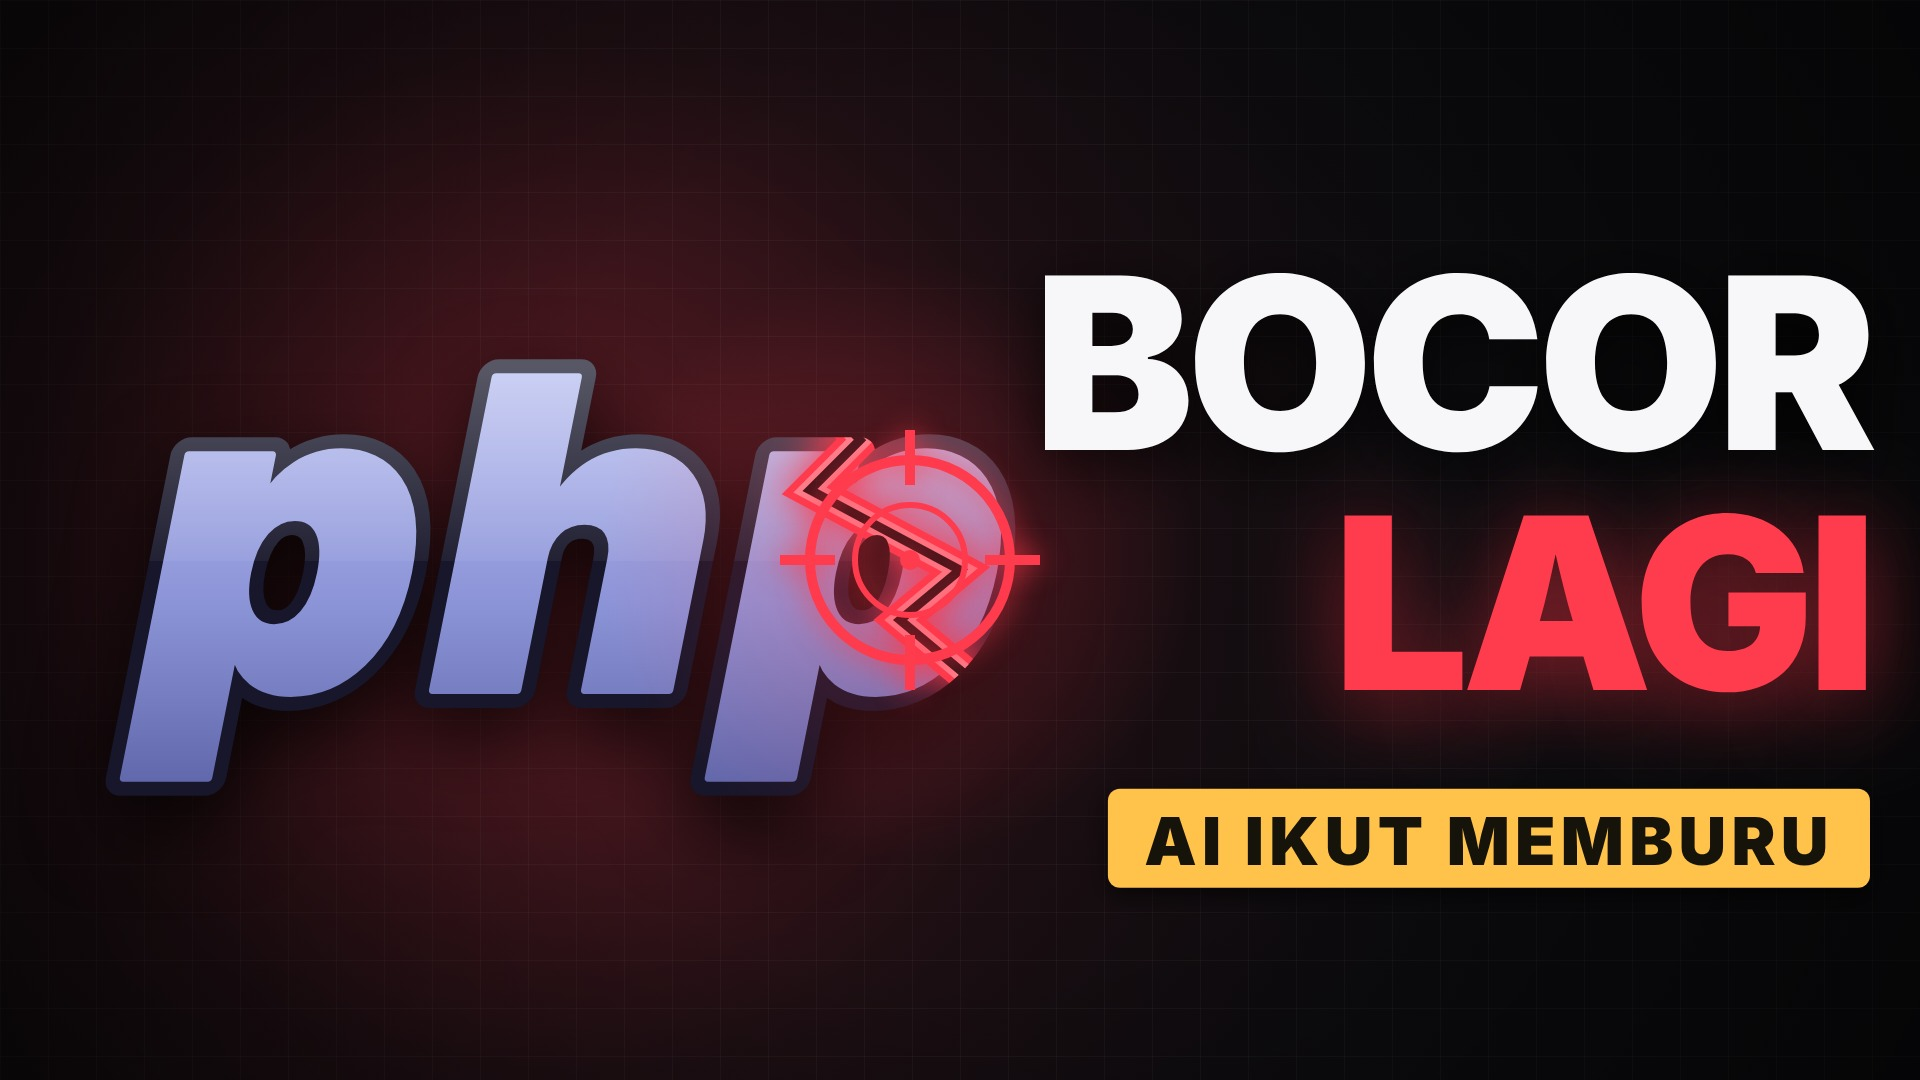
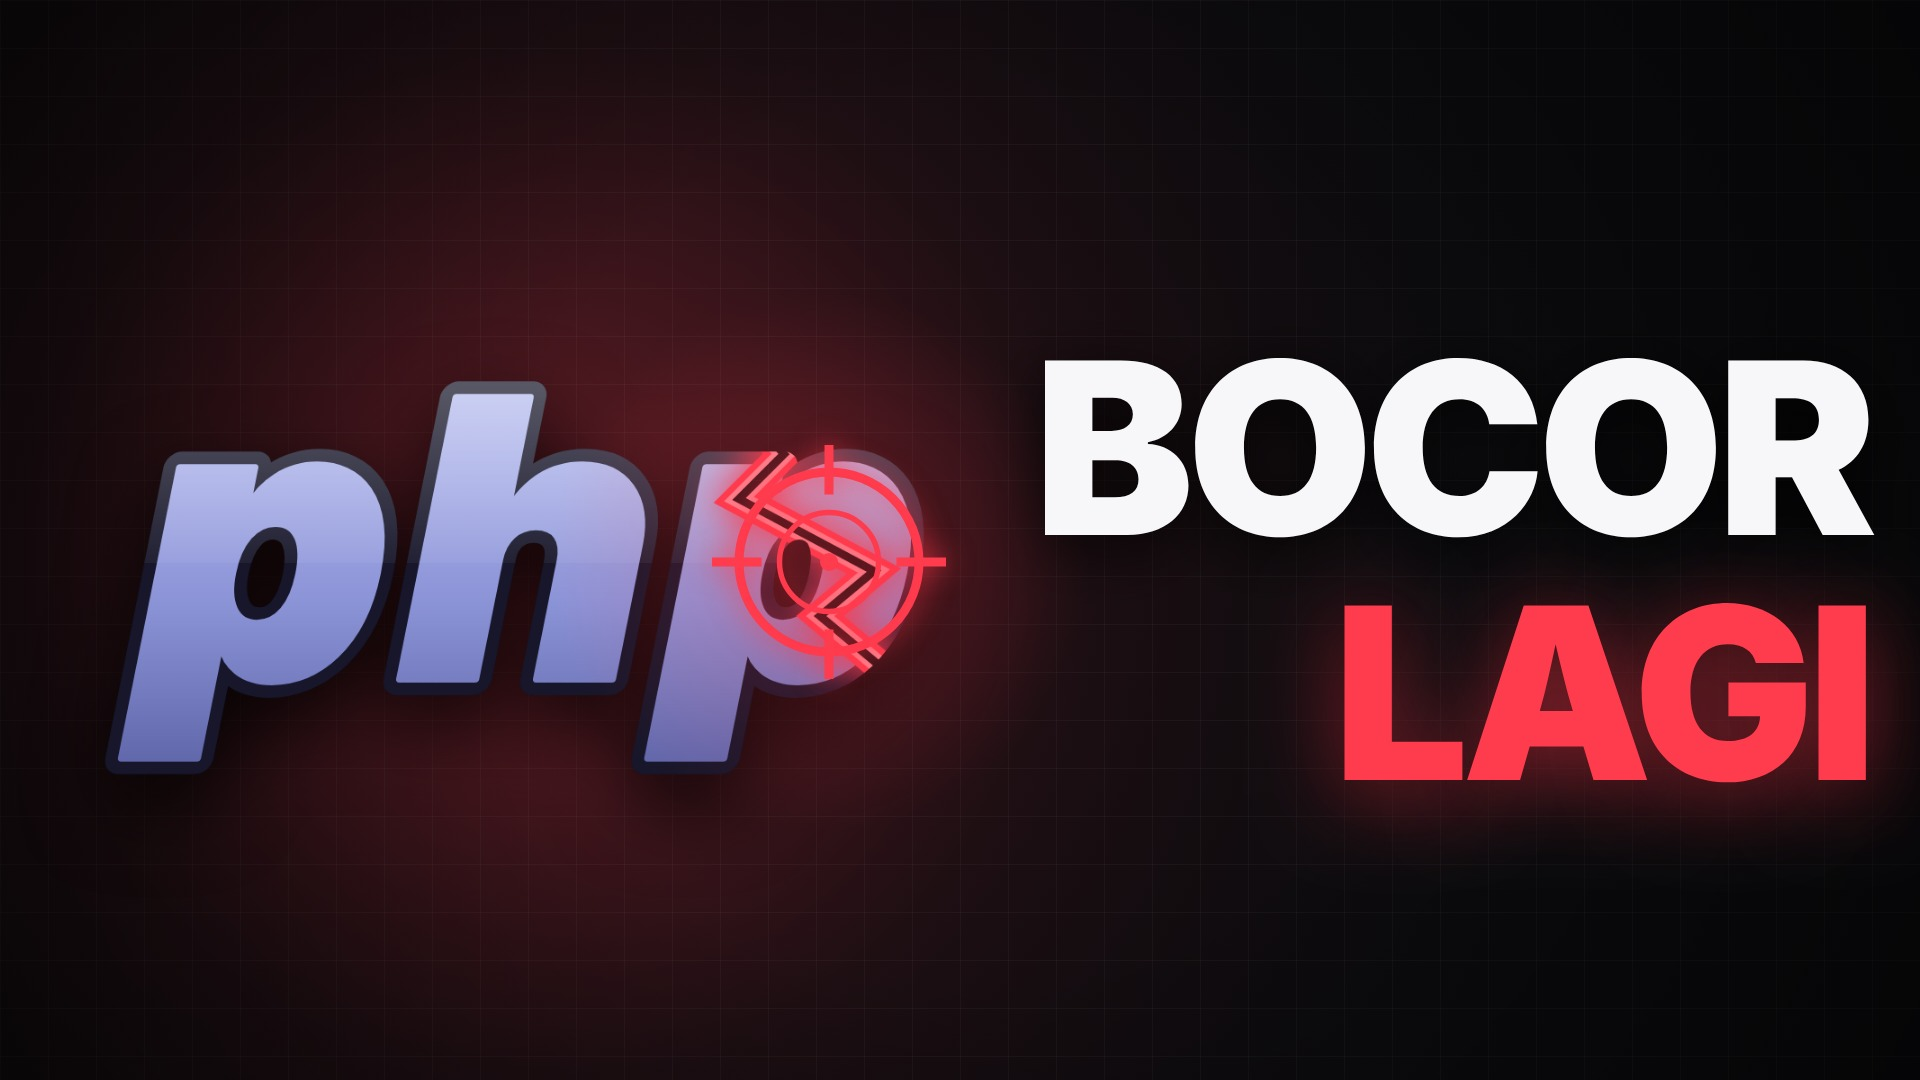
D09: thumbnail A tanpa pita AI IKUT MEMBURU, tata letak diseimbangkan
Claude-Session: https://claude.ai/code/session_012oyg5F1Vn3Ed76pUd4gzbq

Changed region(s): [[0.0312, 0.2444, 1.0, 0.825]]

diff --git a/episodes/dok/D09/thumb/thumb_a2.js b/episodes/dok/D09/thumb/thumb_a2.js
@@ -1,5 +1,5 @@
 // A2 "php retak dibidik": huruf "php" kecil, miring, tebal membulat dengan garis tepi gelap (gaya mirip huruf logo PHP, digambar ulang dengan kode,
-// bukan berkas logo resmi), terbelah retakan merah, retikel bidikan di retakan; kanan: BOCOR LAGI + AI IKUT MEMBURU.
+// bukan berkas logo resmi), terbelah retakan merah, retikel bidikan di retakan; kanan: BOCOR LAGI.
 latar(RED, [540, 560]); vinyet();
 const cv2 = document.createElement("canvas"); cv2.width = W; cv2.height = HH; const c2 = cv2.getContext("2d");
 const BX = 120, BY = 690, SZ = 430;
@@ -15,9 +15,10 @@ const cr = [[BX + 640, 330], [BX + 740, 440], [BX + 690, 490], [BX + 840, 570], 
 const garisRetak = (c, w, col) => { c.strokeStyle = col; c.lineWidth = w; c.lineJoin = "miter"; c.beginPath(); cr.forEach(([x, y], i) => i ? c.lineTo(x, y) : c.moveTo(x, y)); c.stroke(); };
 c2.globalCompositeOperation = "source-atop"; c2.shadowColor = RED; c2.shadowBlur = 40; garisRetak(c2, 34, RED); c2.shadowBlur = 0; garisRetak(c2, 20, "#FF8A96");
 c2.globalCompositeOperation = "destination-out"; garisRetak(c2, 9, "#000");
+ctx.save(); ctx.translate(10, 58); ctx.scale(0.9, 0.9);   // diperkecil supaya ada ruang lega ke judul
 ctx.save(); ctx.shadowColor = "rgba(0,0,0,0.8)"; ctx.shadowBlur = 80; ctx.shadowOffsetY = 30; ctx.drawImage(cv2, 0, 0); ctx.restore();
 X.glow(ctx, BX + 780, 560, 300, RED, 0.45);
 bidik(BX + 790, 560, 100, RED);
-judul("BOCOR", 1870, 450, 240, { align: "right" });
-judul("LAGI", 1870, 690, 240, { align: "right", color: RED, glow: "rgba(255,59,78,0.55)" });
-pita("AI IKUT MEMBURU", 1870, 860, 66, AMB, "#16130A", { align: "right" });
+ctx.restore();
+judul("BOCOR", 1870, 535, 240, { align: "right" });
+judul("LAGI", 1870, 780, 240, { align: "right", color: RED, glow: "rgba(255,59,78,0.55)" });
